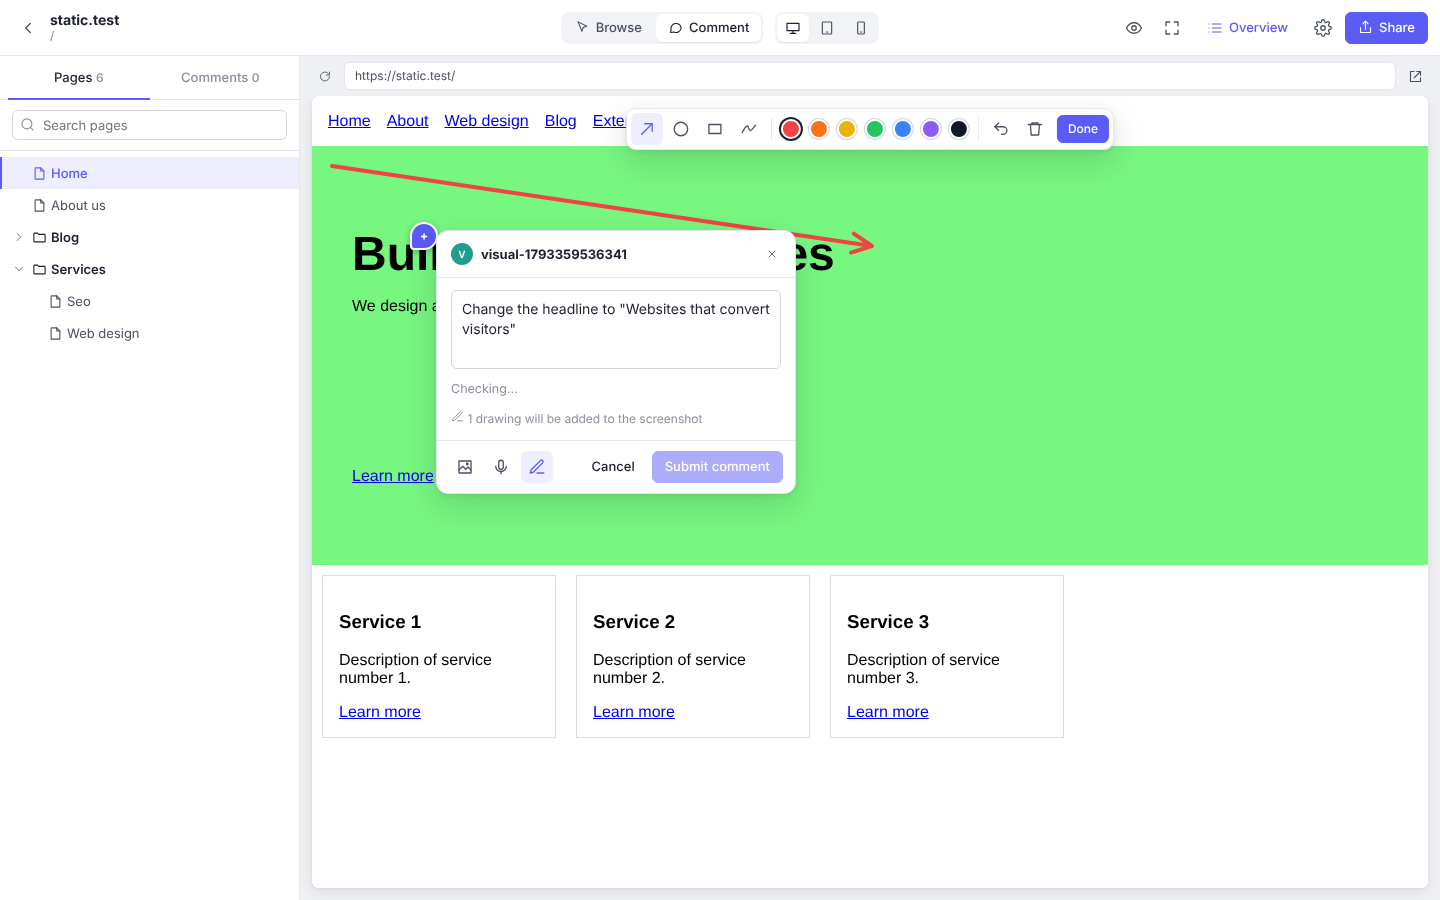
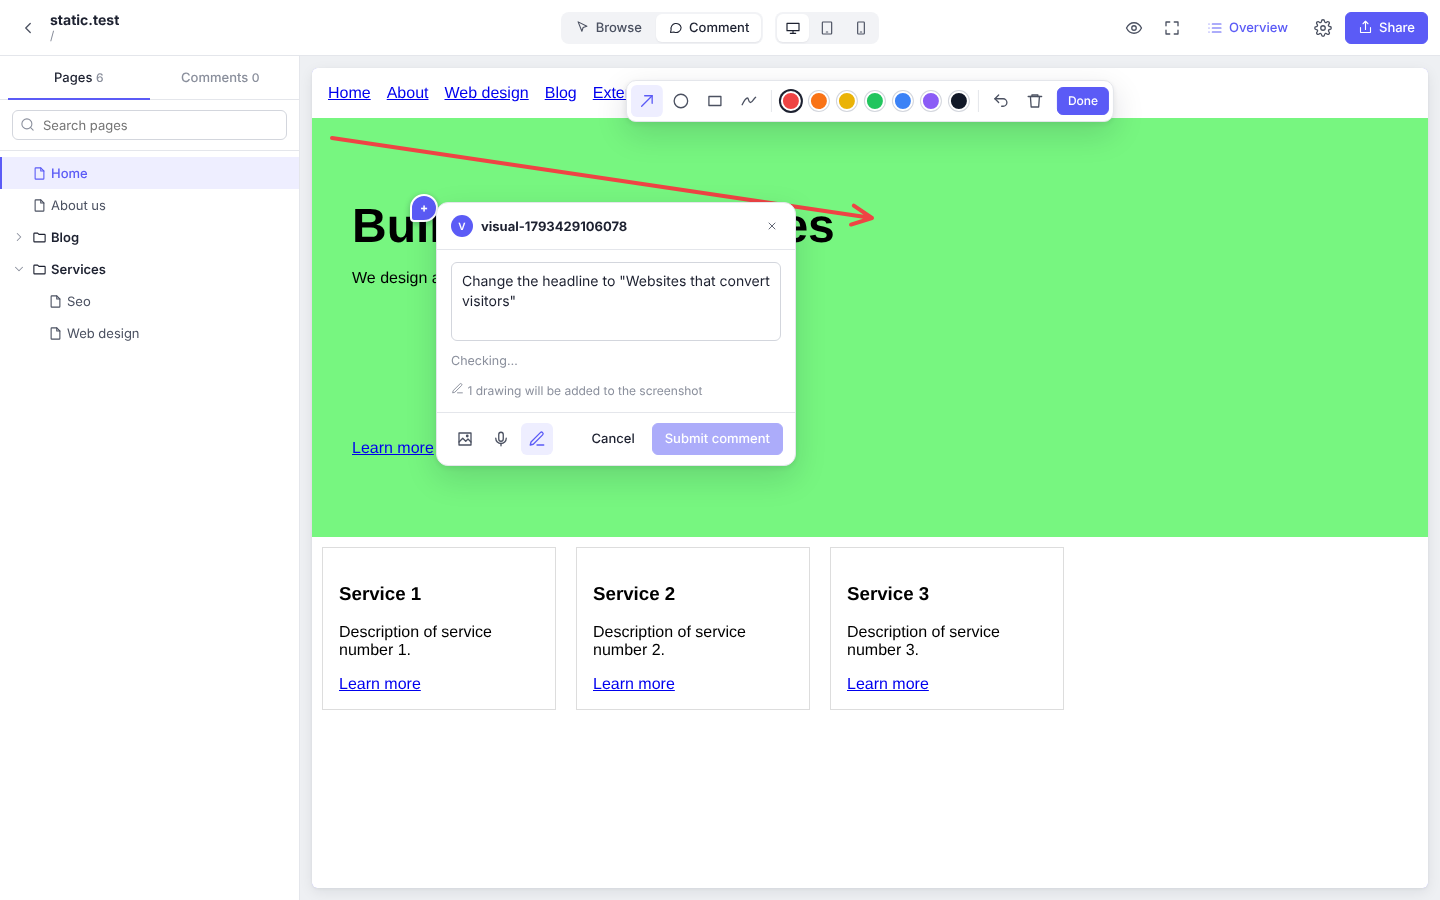
Remove address bar above the website preview
The current page path stays visible in the header (full URL on hover).

Claude-Session: https://claude.ai/code/session_013DKpGw296nXzZ3cmB2k8yv

Changed region(s): [[0.2188, 0.0622, 1.0, 0.56], [0.2188, 0.5911, 1.0, 0.8089]]

diff --git a/web/src/styles.css b/web/src/styles.css
@@ -155,9 +155,7 @@ h1, h2, h3 { margin: 0; font-weight: 600; }
 .c-item .meta { font-size: 12px; color: var(--muted); display: flex; gap: 6px; align-items: center; margin-top: 4px; flex-wrap: wrap; }
 
 .canvas { flex: 1; position: relative; overflow: hidden; display: flex; flex-direction: column; min-width: 0; }
-.addr { height: 40px; display: flex; align-items: center; gap: 6px; padding: 0 12px; flex: none; }
-.addr .url { flex: 1; height: 28px; background: #fff; border: 1px solid var(--border); border-radius: 6px; display: flex; align-items: center; padding: 0 10px; font-size: 12px; color: var(--text-2); overflow: hidden; white-space: nowrap; text-overflow: ellipsis; }
-.stage { flex: 1; position: relative; overflow: auto; display: flex; justify-content: center; min-height: 0; padding: 0 12px 12px; }
+.stage { flex: 1; position: relative; overflow: auto; display: flex; justify-content: center; min-height: 0; padding: 12px; }
 .device { position: relative; background: #fff; box-shadow: var(--shadow); border-radius: 6px; overflow: hidden; flex: none; height: 100%; }
 .device.desktop { width: 100%; }
 .device.tablet { width: 768px; }
@@ -221,7 +219,7 @@ h1, h2, h3 { margin: 0; font-weight: 600; }
 .vsep { width: 1px; height: 22px; background: var(--border); margin: 0 4px; }
 
 /* fullscreen */
-.ws.fullscreen .ws-header, .ws.fullscreen .sidebar, .ws.fullscreen .addr { display: none; }
+.ws.fullscreen .ws-header, .ws.fullscreen .sidebar { display: none; }
 .ws.fullscreen .stage { padding: 0; }
 .ws.fullscreen .device { border-radius: 0; box-shadow: none; }
 .fs-bar { position: absolute; top: 12px; left: 50%; transform: translateX(-50%); z-index: 30; background: #fff; border: 1px solid var(--border); border-radius: 10px; box-shadow: var(--shadow-lg); display: flex; align-items: center; gap: 6px; padding: 4px; }

diff --git a/web/src/pages/Workspace.tsx b/web/src/pages/Workspace.tsx
@@ -401,7 +401,7 @@ export function WorkspacePage() {
       <header className="ws-header">
         <div className="left">
           {role === 'owner' && <Link className="icon-btn" to="/projects" title="All projects"><Icon.back /></Link>}
-          <div className="ws-title"><b>{data.project.name}</b><span>{currentPath}</span></div>
+          <div className="ws-title"><b>{data.project.name}</b><span title={currentUrl} data-testid="current-url">{currentPath}</span></div>
         </div>
         <div className="row" style={{ gap: 12 }}>{modeToggle}{deviceToggle}</div>
         <div className="right">
@@ -423,11 +423,6 @@ export function WorkspacePage() {
             : <CommentsPanel comments={comments} currentUrl={currentUrl} selectedId={selectedId} onSelect={selectComment} filter={filter} setFilter={setFilter} scope={scope} setScope={setScope} pages={pages} />}
         </aside>
         <main className="canvas">
-          <div className="addr">
-            <button className="icon-btn icon-btn-sm" title="Reload" onClick={reload}><Icon.reload size={15} /></button>
-            <div className="url" title={currentUrl} data-testid="current-url">{currentUrl}</div>
-            <a className="icon-btn icon-btn-sm" href={currentUrl} target="_blank" rel="noreferrer noopener" title="Open original page"><Icon.external size={15} /></a>
-          </div>
           <div className="stage">
             <div ref={deviceRef} className={`device ${bp} ${mode === 'comment' ? 'comment-mode' : ''}`} data-testid="device" data-bp={bp}>
               {frameUrl && proxy && (

diff --git a/tests/e2e/workflow.spec.js b/tests/e2e/workflow.spec.js
@@ -191,7 +191,7 @@ test('share link: guest navigates inside the proxy and comments without an accou
   await g.getByTestId('mode-browse').click();
   await frame(g).locator('nav a', { hasText: 'About' }).click();
   await expect(frame(g).locator('.page-title')).toHaveText('About us');
-  await expect(g.getByTestId('current-url')).toHaveText('https://static.test/about');
+  await expect(g.getByTestId('current-url')).toHaveText('/about');
   await expect(g.getByTestId('pages-tree').locator('.tree-row.active')).toContainText('About');
   // root-relative redirect followed inside the proxy
   // back home through the sitemap

diff --git a/tests/e2e/proxy.spec.js b/tests/e2e/proxy.spec.js
@@ -32,7 +32,7 @@ test('SPA: client-side routing, root-relative fetch, dynamic import and pathname
   await f.locator('.spa-link').click();
   await expect(f.locator('.spa-title')).toHaveText('Products');
   await expect(f.locator('.item')).toHaveCount(3);
-  await expect(page.getByTestId('current-url')).toHaveText('https://spa.test/products');
+  await expect(page.getByTestId('current-url')).toHaveText('/products');
   // the visited route is added to the sitemap automatically
   await expect(page.getByTestId('pages-tree').locator('[data-path="/products"]')).toBeVisible();
   // comment on a client-rendered route
